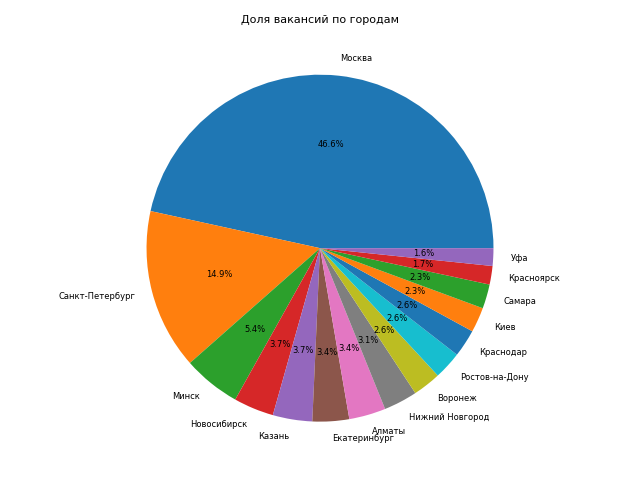
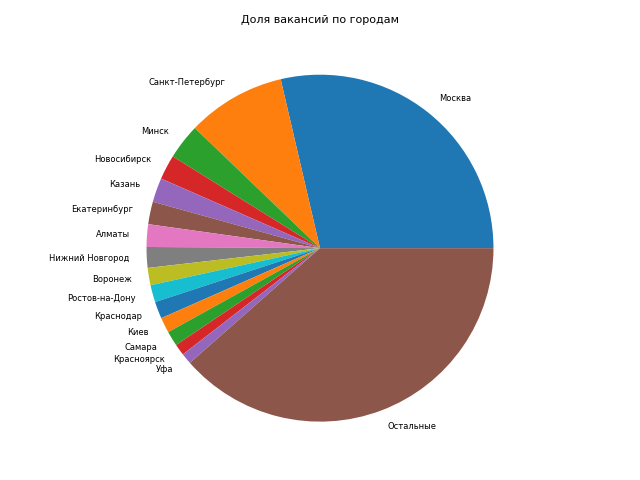
some minor fixes

diff --git a/analytics/templates/geography.html b/analytics/templates/geography.html
@@ -51,6 +51,7 @@
             <thead>
                 <tr>
                     <th>Количество вакансий</th>
+                    <th>Доля вакансий в городе</th>
                     <th>Город</th>
                 </tr>
             </thead>
@@ -58,6 +59,7 @@
                 {% for e in vacancies_by_city %}
                     <tr>
                         <td>{{ e.vacancy_count }}</td>
+                        <td>{{ e.vacancy_share }}</td>
                         <td>{{ e.area_name }}</td>
                     </tr>
                 {% endfor %}

diff --git a/analytics/management/commands/get_currencies.py b/analytics/management/commands/get_currencies.py
@@ -23,13 +23,13 @@ def get_exchange_rates(date, salary_currency, max_retries=3, delay=5):
             data = pd.read_xml(url, encoding="windows-1251")  # Загружаем и парсим XML данные с сайта ЦБ
             if salary_currency != "BYR":
                 currency = float(data[data['CharCode'] == salary_currency]['Value'].values[0].replace(',', '.')) if not \
-                data[data['CharCode'] == salary_currency].empty else 0
+                    data[data['CharCode'] == salary_currency].empty else 0
             else:
                 currency = float(data[data['CharCode'] == "BYR"]['Value'].values[0].replace(',', '.')) if not \
-                data[data['CharCode'] == "BYR"].empty else 0
+                    data[data['CharCode'] == "BYR"].empty else 0
                 if currency == 0:
                     currency = float(data[data['CharCode'] == "BYN"]['Value'].values[0].replace(',', '.')) if not \
-                    data[data['CharCode'] == "BYN"].empty else 0
+                        data[data['CharCode'] == "BYN"].empty else 0
             return currency  # Возвращаем курс
         except (requests.ConnectionError, ConnectionResetError) as e:
             if attempt < max_retries - 1:
@@ -63,7 +63,8 @@ class Command(BaseCommand):
                         continue
 
                     if item.salary_currency:  # Проверяем наличие валюты
-                        exchange_rates.append({'date': date, 'currency_code': item.salary_currency, 'currency': currency})
+                        exchange_rates.append(
+                            {'date': date, 'currency_code': item.salary_currency, 'currency': currency})
                         processed.add(key)
 
         # Сохраняем данные в базу данных

diff --git a/analytics/management/commands/get_salary_by_city.py b/analytics/management/commands/get_salary_by_city.py
@@ -3,6 +3,7 @@ from django.db.models import F, Avg, Count
 from django.db.models.functions import Round
 from analytics.models import Vacancy, Currency, Salary_by_city
 
+
 class Command(BaseCommand):
     help = 'Generate general statistics of vacancies'
 
@@ -35,9 +36,9 @@ class Command(BaseCommand):
         data = data.filter(count_vacancies__gt=total * 0.01)  # Фильтруем города с количеством вакансий более 1%
         data = data.annotate(avg_salary=Round(Avg('avg_salary'), 2))  # Рассчитываем среднюю зарплату
 
-        data = data.order_by('-avg_salary')  # Рассчитываем среднюю зарплату по годам и округляем до 2 знаков после запятой
+        data = data.order_by(
+            '-avg_salary')  # Рассчитываем среднюю зарплату по годам и округляем до 2 знаков после запятой
 
         # Сохраняем новые данные в модель Salary_by_year
         for item in data:
             Salary_by_city.objects.create(area_name=item['area'], avg_salary=item['avg_salary'])
-

diff --git a/analytics/models.py b/analytics/models.py
@@ -24,13 +24,13 @@ class Currency(models.Model):
         db_table = 'currencies'
 
 
-
 class Salary_by_year(models.Model):
     avg_salary = models.FloatField()
     year = models.IntegerField()
 
     class Meta:
         db_table = 'salaries_by_year'
+
 
 class Vacancies_by_year(models.Model):
     vacancy_count = models.IntegerField()
@@ -39,12 +39,14 @@ class Vacancies_by_year(models.Model):
     class Meta:
         db_table = 'vacancies_by_year'
 
+
 class Salary_by_city(models.Model):
     avg_salary = models.FloatField()
     area_name = models.CharField(max_length=50)
 
     class Meta:
         db_table = 'salaries_by_city'
+        verbose_name_plural = 'salaries_by_city'
 
 
 class Vacancies_by_city(models.Model):
@@ -54,3 +56,4 @@ class Vacancies_by_city(models.Model):
 
     class Meta:
         db_table = 'vacancies_by_city'
+        verbose_name_plural = 'vacancies_by_city'

diff --git a/analytics/views.py b/analytics/views.py
@@ -9,9 +9,12 @@ def index(request):
 def demand(request):
     salaries_by_year = Salary_by_year.objects.all()
     vacancies_by_year = Vacancies_by_year.objects.all()
-    return render(request, 'demand.html', {'salaries_by_year': salaries_by_year, 'vacancies_by_year': vacancies_by_year})
+    return render(request, 'demand.html',
+                  {'salaries_by_year': salaries_by_year, 'vacancies_by_year': vacancies_by_year})
+
 
 def geography(request):
     salaries_by_city = Salary_by_city.objects.all()
     vacancies_by_city = Vacancies_by_city.objects.all()
-    return render(request, 'geography.html', {'salaries_by_city': salaries_by_city, 'vacancies_by_city': vacancies_by_city})
+    return render(request, 'geography.html',
+                  {'salaries_by_city': salaries_by_city, 'vacancies_by_city': vacancies_by_city})

diff --git a/analytics/management/commands/build_vacancies_by_city_graph.py b/analytics/management/commands/build_vacancies_by_city_graph.py
@@ -26,6 +26,8 @@ class Command(BaseCommand):
         """
         df = pd.DataFrame(data)
         vacancies_by_city = df.set_index('area_name')['vacancy_share'].to_dict()
+        other_share = sum(vacancies_by_city.values())
+        vacancies_by_city['Остальные'] = 1 - other_share
         return vacancies_by_city  # Возврат распределения вакансий по городам
 
     def generate_pie_diagram(self, stats, ax, name):
@@ -39,6 +41,5 @@ class Command(BaseCommand):
             list(stats.values()),
             labels=list(stats.keys()),
             textprops={'fontsize': 6},
-            autopct='%1.1f%%'  # Добавляем подписи процентов
         )
         ax.set_title(name, fontsize=8)  # Установка заголовка диаграммы

diff --git a/analytics/management/commands/get_vacancies_by_city.py b/analytics/management/commands/get_vacancies_by_city.py
@@ -3,6 +3,7 @@ from django.db.models import F, Avg, Count
 from django.db.models.functions import Round
 from analytics.models import Vacancy, Currency, Vacancies_by_city
 
+
 class Command(BaseCommand):
     help = 'Generate general statistics of vacancies'
 
@@ -34,5 +35,5 @@ class Command(BaseCommand):
 
         # Сохраняем новые данные в модель Salary_by_year
         for item in data:
-            Vacancies_by_city.objects.create(vacancy_share = item['vacancy_share'], area_name=item['area'], vacancy_count=item['count_vacancies'])
-
+            Vacancies_by_city.objects.create(vacancy_share=item['vacancy_share'], area_name=item['area'],
+                                             vacancy_count=item['count_vacancies'])

diff --git a/analytics/management/commands/get_salaries_currencies_from_api.py b/analytics/management/commands/get_salaries_currencies_from_api.py
@@ -41,8 +41,8 @@ class Command(BaseCommand):
             item.salary_to = 0 if item.salary_to is None else item.salary_to
 
         data = (data.annotate(year=Substr('published_at', 1, 4))
-                    .values('year')
-                    .annotate(avg_salary=Round(Avg((F('salary_from') + F('salary_to')) / 2), 2)))
+                .values('year')
+                .annotate(avg_salary=Round(Avg((F('salary_from') + F('salary_to')) / 2), 2)))
 
         # Определяем путь для сохранения файла
         file_path = os.path.join(os.getcwd(), "salary_by_year.csv")

diff --git a/analytics/management/commands/read_csv.py b/analytics/management/commands/read_csv.py
@@ -4,6 +4,7 @@ from django.core.management.base import BaseCommand
 from analytics.models import Vacancy
 from datetime import datetime
 
+
 class Command(BaseCommand):
     def add_arguments(self, parser):
         parser.add_argument('csv_file', type=str, help='The path to the CSV file to import')

diff --git a/analytics/admin.py b/analytics/admin.py
@@ -5,3 +5,5 @@ admin.site.register(Vacancy)
 admin.site.register(Salary_by_year)
 admin.site.register(Vacancies_by_year)
 admin.site.register(Currency)
+admin.site.register(Vacancies_by_city)
+admin.site.register(Salary_by_city)

diff --git a/PYPROJ/urls.py b/PYPROJ/urls.py
@@ -2,7 +2,6 @@ from django.contrib import admin
 from django.urls import path
 from analytics import views
 
-
 urlpatterns = [
     path('admin/', admin.site.urls),
     path('hello/', views.index, name='index'),
